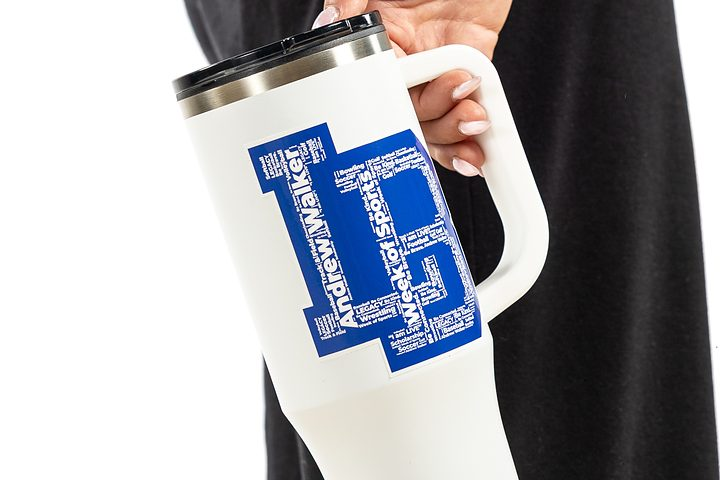
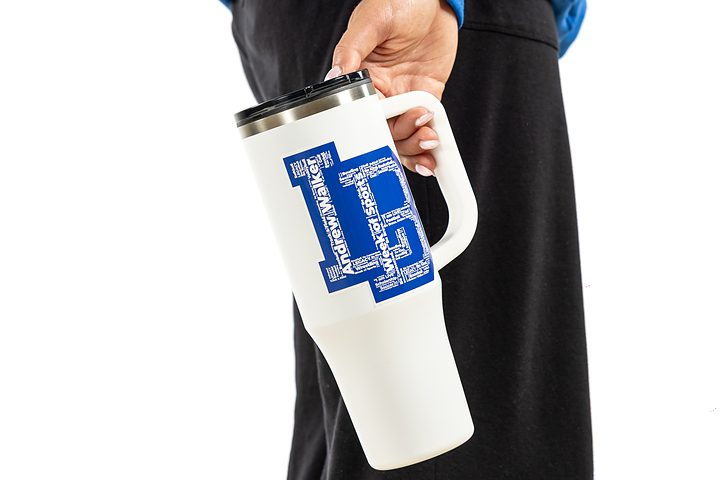
Gear tiles: stop the constant auto-scroll, zoom out on the stickers
All six tiles flipping on their own was distracting. Tiles now sit still:
hovering one with a mouse flips through its photos (next photo at once,
then every 1.1s until the pointer leaves), and on a phone a sideways swipe
across the photo moves one photo. Pointer events keep a phone's tap from
starting a hover loop, touch-action: pan-y keeps vertical scrolling, and
the tap that ends a swipe doesn't add the item. Dots move bottom-right on
every tile, clear of the color tag and off the hat and beanie faces.

The sticker photos are re-cropped from 85% of the frame instead of a
tight crop, so the whole laptop and cup show with the hand holding them.

diff --git a/gear/index.html b/gear/index.html
@@ -55,15 +55,14 @@
   .o-total b.bump{display:inline-block;animation:total-bump .42s ease-out}
   .prod>img,.prod>.ph,.prod>.pcar{width:100%;height:130px;border-radius:10px;margin-bottom:12px;display:block;background:#eef2f8}
   .prod>img{object-fit:cover;object-position:center 26%}
-  /* color carousel: apparel tiles auto-scroll through one photo per color */
-  .prod>.pcar{position:relative;overflow:hidden}
+  /* photo carousel: still until hovered (mouse) or swiped sideways (touch); pan-y keeps page scrolling */
+  .prod>.pcar{position:relative;overflow:hidden;touch-action:pan-y}
   .pcar .ptrack{display:flex;width:100%;height:100%;transition:transform .6s cubic-bezier(.22,.61,.36,1)}
   .pcar .ptrack img{flex:0 0 100%;width:100%;height:100%;object-fit:cover;object-position:center 26%;display:block;margin:0;border-radius:0}
-  .pcar .pdots{position:absolute;left:0;right:0;bottom:7px;display:flex;justify-content:center;gap:5px;pointer-events:none}
+  /* dots bottom-right: clear of the color tag (bottom-left) and off the faces in the hat and beanie shots */
+  .pcar .pdots{position:absolute;right:9px;bottom:7px;display:flex;gap:5px;pointer-events:none}
   .pcar .pdots i{width:6px;height:6px;border-radius:50%;background:rgba(255,255,255,.55);box-shadow:0 0 0 1px rgba(10,35,66,.25)}
   .pcar .pdots i.on{background:#fff}
-  /* a tile with a color tag (bottom-left) keeps its dots bottom-right, so six dots can't run into it on a phone */
-  .pcar[data-colors] .pdots{left:auto;right:9px}
   .pcar .pclabel{position:absolute;left:8px;bottom:6px;font-family:'Oswald',system-ui,sans-serif;font-weight:600;text-transform:uppercase;letter-spacing:.05em;font-size:10px;line-height:1;color:#fff;background:rgba(10,35,66,.6);padding:4px 8px;border-radius:999px}
   @media (prefers-reduced-motion:reduce){.pcar .ptrack{transition:none}}
   /* tidy placeholder shown for products that don't have a photo yet */
@@ -272,7 +271,10 @@
     }).join('');
     var tiles = S('addbar').querySelectorAll('.prod');
     Array.prototype.forEach.call(tiles, function(b){
-      b.addEventListener('click', function(){ addItem(b.dataset.add); });
+      b.addEventListener('click', function(){
+        if(b._swipedAt && Date.now() - b._swipedAt < 600) return;   /* that tap ended a photo swipe, not an Add */
+        addItem(b.dataset.add);
+      });
     });
 
     /* a Drive photo gets a second route (Google's thumbnail server) before we give up on it.
@@ -286,8 +288,10 @@
       });
     }
 
-    /* gently auto-scroll a multi-photo tile through its colors */
-    function initCarousel(car, ci){
+    /* a multi-photo tile sits still until someone shows interest: hovering it with a mouse
+       flips through its photos, and on a phone a sideways swipe across the photo does.
+       (Every tile scrolling on its own all the time was distracting.) The dots show there's more. */
+    function initCarousel(car, tile){
       var track = car.querySelector('.ptrack'), dotsWrap = car.querySelector('.pdots'), label = car.querySelector('.pclabel');
       var names = (car.getAttribute('data-colors')||'').split('|');
       var idx = 0;
@@ -311,21 +315,43 @@
         });
       });
       show(0);
-      if(slides().length > 1 && !reduceMotion()){
-        car._s = setTimeout(function(){ car._t = setInterval(function(){ show(idx+1); }, 2400); }, ci*500);   /* stagger so tiles don't flip in unison */
+      if(slides().length < 2) return;
+
+      /* mouse: show the next photo right away, then keep flipping while the pointer stays.
+         Pointer events, not mouseenter, so a phone's tap can't start a loop that never ends. */
+      function stop(){ clearInterval(car._t); car._t = null; }
+      function enter(e){
+        if(e.pointerType !== 'mouse' || car._t || !car.isConnected) return;
+        show(idx+1);
+        car._t = setInterval(function(){ show(idx+1); }, 1100);
       }
+      /* touch: a mostly-sideways swipe of 28px+ moves one photo; vertical drags still scroll */
+      var sx = null, sy = 0;
+      function down(e){ if(e.pointerType !== 'mouse'){ sx = e.clientX; sy = e.clientY; } }
+      function up(e){
+        if(sx === null) return;
+        var dx = e.clientX - sx, dy = e.clientY - sy; sx = null;
+        if(Math.abs(dx) > 28 && Math.abs(dx) > Math.abs(dy) * 1.2){ show(idx + (dx < 0 ? 1 : -1)); tile._swipedAt = Date.now(); }
+      }
+      function cancel(){ sx = null; }
+      tile.addEventListener('pointerenter', enter);
+      tile.addEventListener('pointerleave', stop);
+      car.addEventListener('pointerdown', down);
+      car.addEventListener('pointerup', up);
+      car.addEventListener('pointercancel', cancel);
+      tile._carOff = function(){ stop(); tile.removeEventListener('pointerenter', enter); tile.removeEventListener('pointerleave', stop); };
     }
 
     /* put a product's photos into its tile */
     function setMedia(btn, p, photos, ci){
       var old = btn.firstElementChild;
-      if(old){ clearTimeout(old._s); clearInterval(old._t); }
+      if(btn._carOff){ btn._carOff(); btn._carOff = null; }   /* drop the old photos' hover/swipe handlers */
       var tmp = document.createElement('span'); tmp.innerHTML = mediaHTML(p, photos);
       var m = tmp.firstElementChild;
       btn.replaceChild(m, old);
       wireFallback(m.tagName === 'IMG' ? [m] : m.querySelectorAll('img[data-alt]'));
       if(m.tagName === 'IMG') m.addEventListener('error', function(){ m.outerHTML = phHTML(p.name); });   /* wrong path / not uploaded yet */
-      else if(m.classList.contains('pcar')) initCarousel(m, ci);
+      else if(m.classList.contains('pcar')) initCarousel(m, btn);
     }
     function fillPhotos(rows){
       products.forEach(function(p, i){
